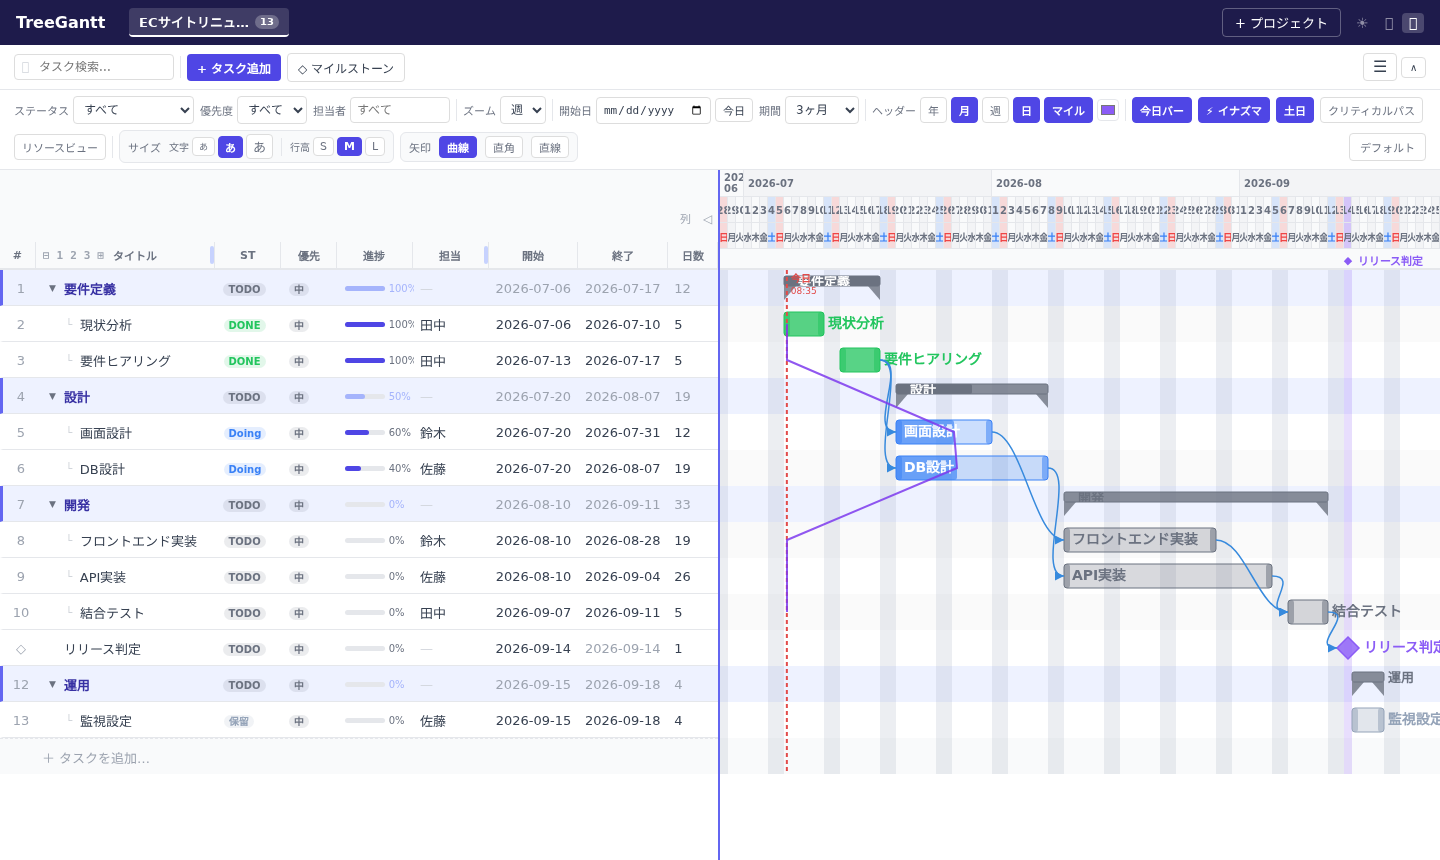
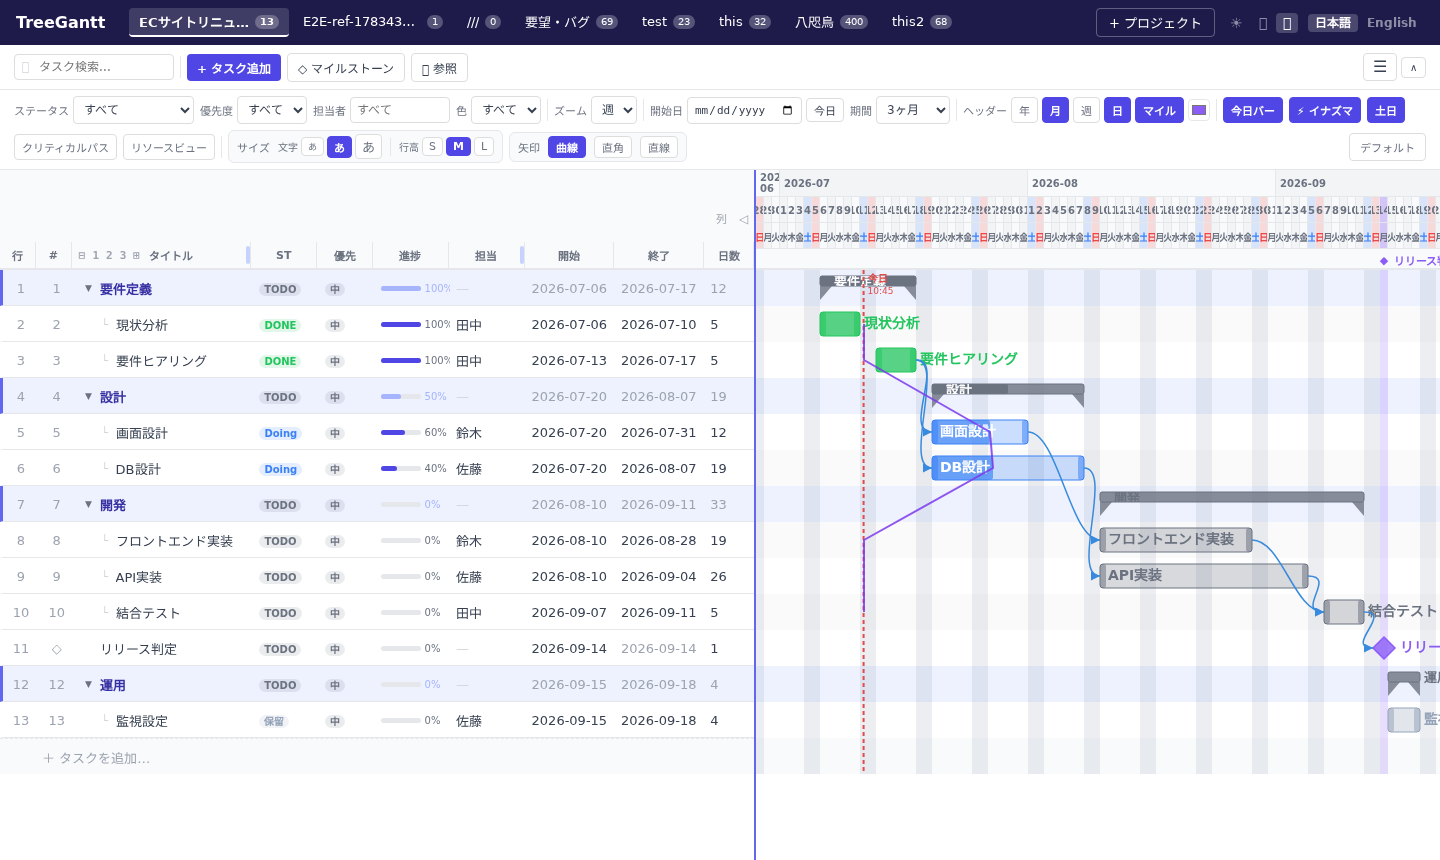
fix(e2e): ヒーロー画像のホバー要素混入を解消しREADME用スクリーンショットを追加
overview.png にホバー中の TaskTooltip/コネクタドットが写り込む不具合を、撮影直前に
マウスを退避させる処理で解消して再撮影。あわせて依存関係の矢印・競合解決 UI
（ConflictDialog）を撮影する readme-screenshots.spec.ts を新規追加し、
dependency.png / conflict.png を生成した。いずれも HERO_SCREENSHOT=1 明示指定時のみ
実行され、通常の e2e 実行では影響しない。

diff --git a/e2e/tests/readme-screenshots.spec.ts b/e2e/tests/readme-screenshots.spec.ts
@@ -1,0 +1,130 @@
+import { test, expect } from '../fixtures/app';
+import path from 'path';
+
+// README「📸 スクリーンショット」節用の依存関係・競合解決 UI キャプチャ。
+// hero-screenshot.spec.ts と同様、リポジトリ管理下の docs/images/*.png を上書きするため、
+// 通常の `npx playwright test` ではスキップされる（作業ツリーを汚さない・CI で無駄に実行しない）。
+// 再生成: HERO_SCREENSHOT=1 npx playwright test tests/readme-screenshots.spec.ts
+
+test.describe('依存関係画像', () => {
+  // README では2カラムのサムネイルとして小さく表示されるため、gantt-chart-body の余白
+  // （表示期間3ヶ月分の空白部分）が写り込みすぎないよう、通常より狭いビューポートで
+  // WBS 列＋タスク3件分の描画幅にほぼ収める
+  test.use({ viewport: { width: 1130, height: 460 } });
+
+  // 撮影対象: 依存関係の矢印（曲線、既定スタイル）。出力先: docs/images/dependency.png
+  test('依存関係画像: 3タスクの先行/後続チェーンをフォーカス表示して撮影 → docs/images/dependency.png', async ({
+    page,
+    request,
+    projectId,
+    projectName,
+  }) => {
+    test.skip(process.env.HERO_SCREENSHOT !== '1',
+      'docs/images/dependency.png を上書きするため HERO_SCREENSHOT=1 の明示指定時のみ実行');
+
+    const createTask = async (body: Record<string, unknown>): Promise<string> => {
+      const res = await request.post(`/api/v1/projects/${projectId}/tasks`, { data: body });
+      expect(res.ok()).toBeTruthy();
+      const { task } = await res.json();
+      return task.id as string;
+    };
+
+    // 固定の未来日付（非決定性排除、visual-regression.spec.ts と同じ方針）で連続する3タスクを作成
+    const design = await createTask({
+      title: '設計', status: 'done', progress: 100,
+      startDate: '2031-08-04', endDate: '2031-08-06', assignee: '田中',
+    });
+    const impl = await createTask({
+      title: '実装', status: 'wip', progress: 40,
+      startDate: '2031-08-07', endDate: '2031-08-11', assignee: '鈴木',
+      predecessors: [design],
+    });
+    const qa = await createTask({
+      title: 'テスト', status: 'todo', progress: 0,
+      startDate: '2031-08-12', endDate: '2031-08-13', assignee: '佐藤',
+      predecessors: [impl],
+    });
+
+    await page.reload();
+    await page.getByRole('button', { name: projectName }).click();
+    await expect(page.locator('[data-testid="wbs-panel"]').getByText('テスト')).toBeVisible();
+
+    // タスクにフォーカスした構図: 日ズーム + タスク群の直前を起点に短い表示期間（最小の3ヶ月）
+    await page.getByLabel('ズームレベル').selectOption('day');
+    await page.getByLabel('開始日').fill('2031-08-02');
+    await page.getByLabel('表示期間').selectOption('3m');
+
+    // 依存矢印が描画されるまで待ち、レイアウト安定のため少し静止する
+    await expect(page.locator(`[data-task-id="${qa}"]`)).toBeVisible();
+    await page.waitForTimeout(300);
+
+    // ホバー起因の要素が写り込まないよう、撮影直前にマウスを退避させる
+    await page.mouse.move(0, 0);
+    await page.waitForTimeout(300);
+
+    const outPath = path.resolve(__dirname, '../../docs/images/dependency.png');
+    await page.locator('[data-testid="gantt-chart-body"]').screenshot({ path: outPath });
+  });
+});
+
+test.describe('競合解決画像', () => {
+  test.use({ viewport: { width: 1280, height: 800 } });
+
+  // 撮影対象: ConflictDialog（同一フィールド同時編集時の競合解決UI）。出力先: docs/images/conflict.png
+  test('競合解決画像: WBS編集中に他者変更→ConflictDialog表示を撮影 → docs/images/conflict.png', async ({
+    page,
+    request,
+    projectId,
+    projectName,
+  }) => {
+    test.skip(process.env.HERO_SCREENSHOT !== '1',
+      'docs/images/conflict.png を上書きするため HERO_SCREENSHOT=1 の明示指定時のみ実行');
+
+    const res = await request.post(`/api/v1/projects/${projectId}/tasks`, {
+      data: { title: '担当者アサイン', assignee: '田中' },
+    });
+    expect(res.ok()).toBeTruthy();
+    const { task } = await res.json();
+    const taskId = task.id as string;
+
+    await page.reload();
+    await page.getByRole('button', { name: projectName }).click();
+    const wbsPanel = page.locator('[data-testid="wbs-panel"]');
+    await expect(wbsPanel.getByText('担当者アサイン')).toBeVisible();
+
+    // WBS の担当者セルをクリックして編集モードに入る（GanttLeftRow.tsx の startEdit('assignee', ...)）
+    await wbsPanel.getByText('田中', { exact: true }).click();
+    const input = wbsPanel.locator('input');
+    await expect(input).toBeVisible();
+
+    // 編集中のまま、別経路（API直接呼び出し）で同じフィールドをサーバー側で変更する
+    const patchRes = await request.patch(`/api/v1/tasks/${taskId}`, { data: { assignee: '鈴木' } });
+    expect(patchRes.ok()).toBeTruthy();
+
+    // WebSocket 経由でフロントの task ストアに反映されるまで待つ（編集中の input はローカル state のため
+    // 反映を直接観測する術がなく、ローカル環境の WS 往復時間に十分な余裕を見て待機する）
+    await page.waitForTimeout(1000);
+
+    // 編集中の値・他者の変更後の値のいずれとも異なる第3の値で確定 → 競合判定で ConflictDialog が開く
+    await input.fill('佐藤');
+    await input.press('Enter');
+
+    // ダイアログ自体（position:fixed のオーバーレイ）に絞り込む。ConflictDialog は行コンポーネント
+    // （GanttLeftRow）内に直接レンダリングされるため、単純に見出しテキストを含む div でフィルタすると
+    // 行全体（WBS 上の「鈴木」表示等を含む祖先 div）まで拾ってしまう。行のタイトル文言を含まない
+    // （＝ダイアログ自身のサブツリーに閉じた）最初の div に絞ることで一意に判定できるようにする
+    const dialogOverlay = page.locator('div')
+      .filter({ hasText: '⚠️ 編集中に別のユーザーが変更しました' })
+      .filter({ hasNotText: '担当者アサイン' })
+      .first();
+    await expect(dialogOverlay).toBeVisible({ timeout: 5000 });
+    await expect(dialogOverlay.getByText('別のユーザーの変更', { exact: true })).toBeVisible();
+    await expect(dialogOverlay.getByText('あなたの変更', { exact: true })).toBeVisible();
+    await expect(dialogOverlay.getByText('鈴木', { exact: true })).toBeVisible();
+    await expect(dialogOverlay.getByText('佐藤', { exact: true })).toBeVisible();
+    await page.waitForTimeout(200);
+
+    const outPath = path.resolve(__dirname, '../../docs/images/conflict.png');
+    await page.screenshot({ path: outPath });
+  });
+});

diff --git a/e2e/tests/hero-screenshot.spec.ts b/e2e/tests/hero-screenshot.spec.ts
@@ -95,6 +95,11 @@ test('ヒーロー画像用: 見栄えの良いシードデータでガント全
     await expect(page.getByText('リリース判定').first()).toBeVisible();
     await page.waitForTimeout(500);
 
+    // ホバー起因の要素（TaskTooltip・依存リンク用コネクタドット等）が写り込まないよう、
+    // 撮影直前にマウスを何もない安全な位置（左上余白）へ退避させ、ホバー解除の反映を待つ
+    await page.mouse.move(0, 0);
+    await page.waitForTimeout(300);
+
     const outPath = path.resolve(__dirname, '../../docs/images/overview.png');
     await page.screenshot({ path: outPath });
   } finally {